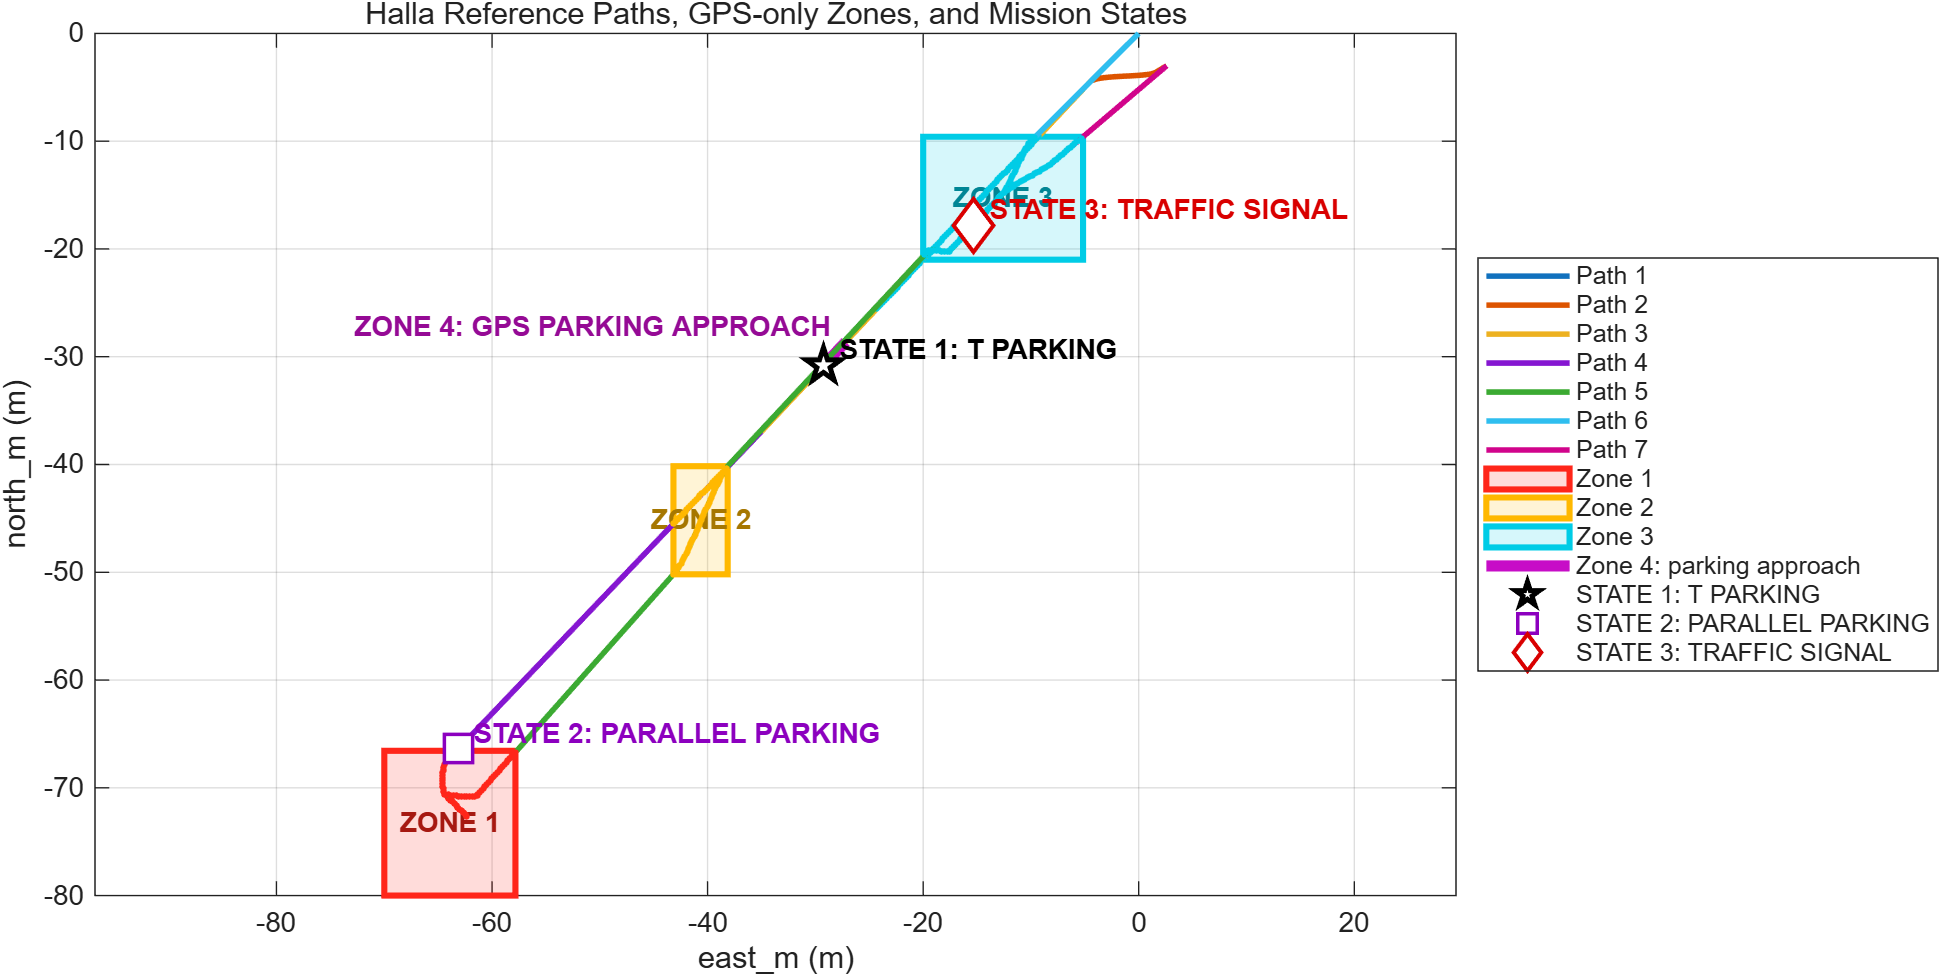
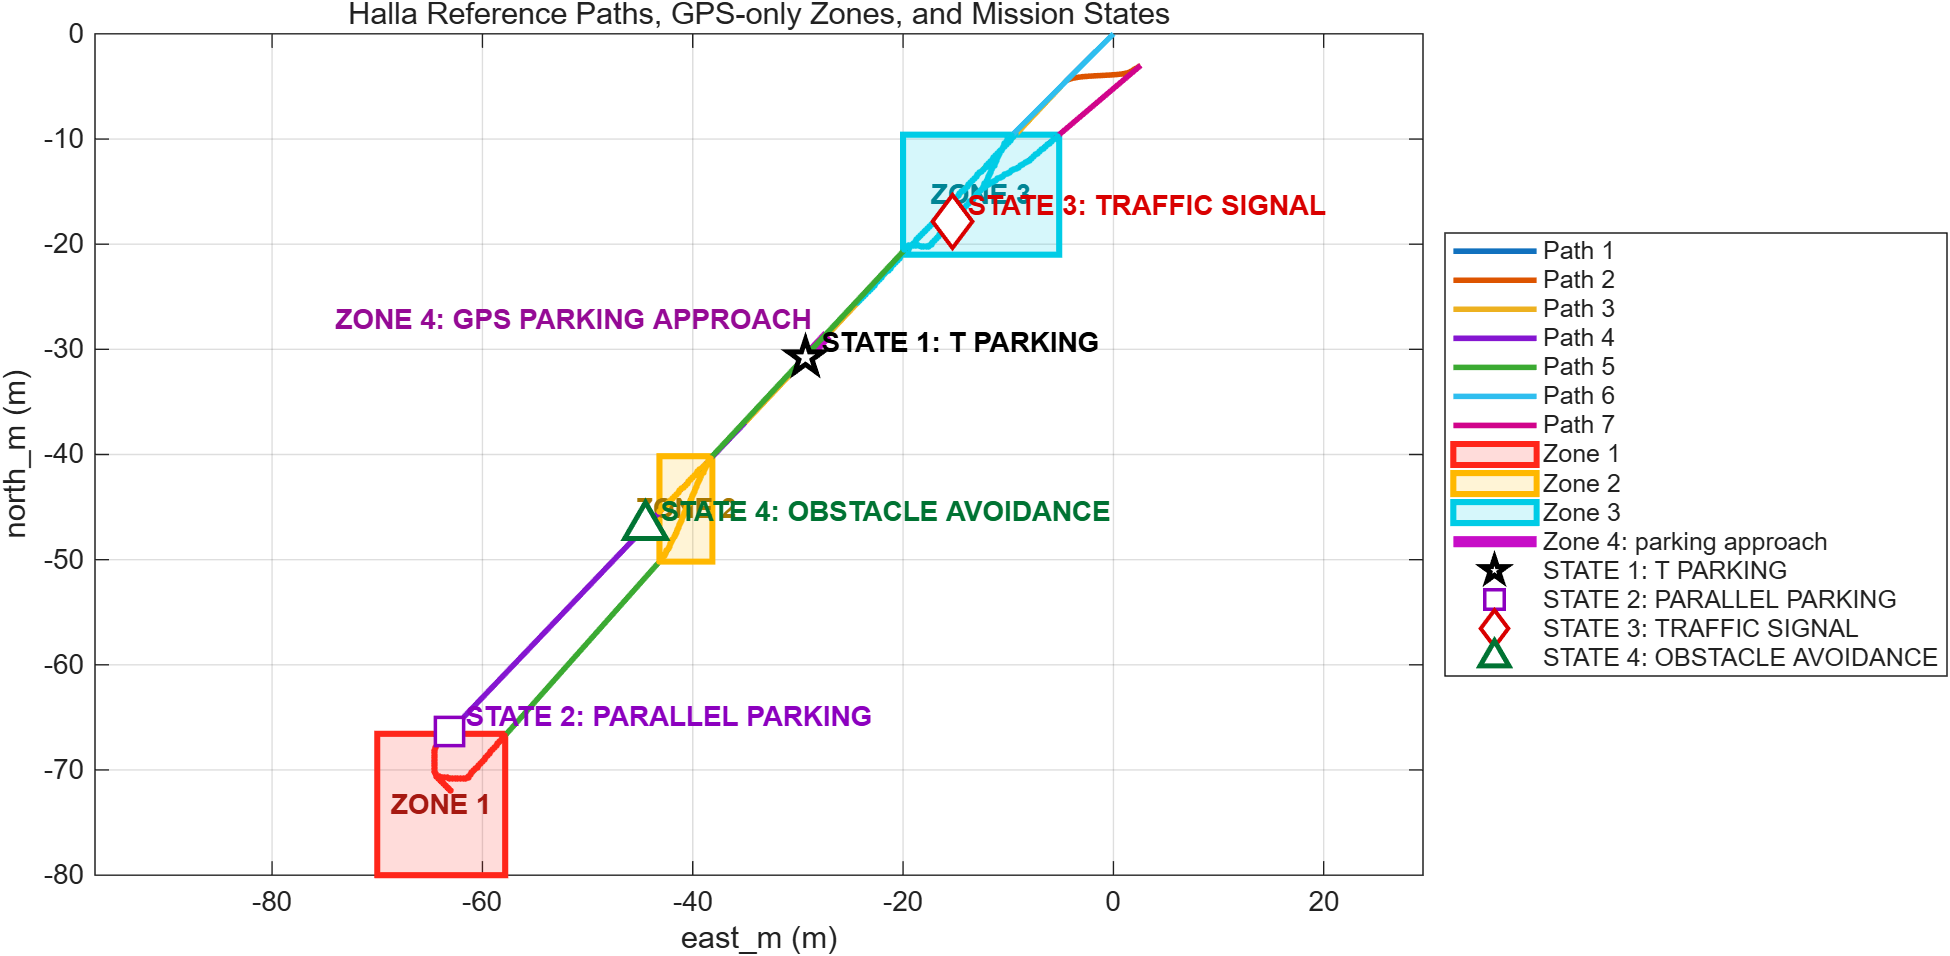
fix(stack_gps): mark obstacle avoidance transition

diff --git a/src/stack_gps/test/test_halla_reference_mission.py b/src/stack_gps/test/test_halla_reference_mission.py
@@ -66,7 +66,7 @@ def test_path_graph_connects_except_for_the_parking_handoff():
     assert _xy(paths[3][-1]) == _xy(paths[4][0])
     # Path 4 finishes the parallel-parking maneuver. Path 5 deliberately
     # resumes from its separate post-parking start point.
-    assert _xy(paths[4][-1]) == (-62.335, -72.648)
+    assert _xy(paths[4][-1]) == (-63.042107, -71.940893)
     assert _xy(paths[5][0]) == (-64.335, -70.648)
     assert _xy(paths[5][-1]) == _xy(paths[6][0]) == _xy(paths[7][0])
     assert _xy(paths[6][-1]) == _xy(paths[1][0])
@@ -80,7 +80,7 @@ def test_updated_parking_control_points_are_sampled():
         (-35.02, -36.958),
         (-64.335, -67.648),
         (-64.335, -70.648),
-        (-62.335, -72.648),
+        (-63.042107, -71.940893),
     }.issubset(path_4)
     assert {
         (-64.335, -70.648),
@@ -121,17 +121,18 @@ def test_parking_markers_match_requested_positions():
         assert abs(parking_points[0]['lon'] - float(marked[0]['lon'])) < 1e-8
 
 
-def test_mission_state_codes_and_signal_marker():
+def test_mission_state_codes_and_transition_markers():
     expected = {
         1: (3, 145, 'perpendicular'),
         2: (4, 163, 'parallel'),
         3: (5, 300, 'none'),
+        4: (4, 55, 'none'),
     }
     marked = []
     for path_id in range(1, 8):
         for row in _load_path(path_id):
             state = int(row['state'])
-            assert state in (0, 1, 2, 3)
+            assert state in (0, 1, 2, 3, 4)
             if state:
                 marked.append((state, path_id, int(row['idx']), row['parking_mode']))
     assert sorted(marked) == [
@@ -174,13 +175,28 @@ def test_mission_yaml_state_definitions_match_csv():
         1: 'perpendicular_parking',
         2: 'parallel_parking',
         3: 'traffic_signal',
+        4: 'obstacle_avoidance',
     }
     assert [(point['state'], point['path_id'], point['idx'])
             for point in mission['state_points']] == [
                 (1, 3, 145),
                 (2, 4, 163),
                 (3, 5, 300),
+                (4, 4, 55),
             ]
+
+
+def test_path_4_final_straight_is_shortened_by_one_meter():
+    rows = _load_path(4)
+    assert len(rows) == 192
+    straight_start = (-64.335, -70.648)
+    end = _xy(rows[-1])
+    assert end == (-63.042107, -71.940893)
+    assert math.isclose(
+        math.hypot(end[0] - straight_start[0], end[1] - straight_start[1]),
+        math.sqrt(8.0) - 1.0,
+        abs_tol=1e-6,
+    )
 
 
 def test_route_zone_files_reference_the_matching_track():

diff --git a/src/stack_gps/tools/waypoints/plot_halla_reference_mission.m b/src/stack_gps/tools/waypoints/plot_halla_reference_mission.m
@@ -38,8 +38,8 @@ zoneHandles(4) = plot(ax, nan, nan, '-', ...
     'DisplayName', 'Zone 4: parking approach');
 
 pathHandles = gobjects(7, 1);
-stateEast = nan(3, 1);
-stateNorth = nan(3, 1);
+stateEast = nan(4, 1);
+stateNorth = nan(4, 1);
 for pathId = 1:7
     pathFile = fullfile(waypointDir, ...
         sprintf('waypoints_halla_reference_path_%02d.csv', pathId));
@@ -66,7 +66,7 @@ for pathId = 1:7
             'FontWeight', 'bold', 'HorizontalAlignment', 'right', ...
             'VerticalAlignment', 'bottom');
     end
-    for stateId = 1:3
+    for stateId = 1:4
         stateRow = find(T.state == stateId, 1);
         if ~isempty(stateRow)
             stateEast(stateId) = T.east_m(stateRow);
@@ -76,11 +76,11 @@ for pathId = 1:7
 end
 
 stateLabels = ["STATE 1: T PARKING", "STATE 2: PARALLEL PARKING", ...
-    "STATE 3: TRAFFIC SIGNAL"];
-stateMarkers = ['p', 's', 'd'];
-stateColors = [0 0 0; 0.55 0 0.75; 0.85 0 0];
-stateHandles = gobjects(3, 1);
-for stateId = 1:3
+    "STATE 3: TRAFFIC SIGNAL", "STATE 4: OBSTACLE AVOIDANCE"];
+stateMarkers = ['p', 's', 'd', '^'];
+stateColors = [0 0 0; 0.55 0 0.75; 0.85 0 0; 0.00 0.45 0.20];
+stateHandles = gobjects(4, 1);
+for stateId = 1:4
     stateHandles(stateId) = plot(ax, stateEast(stateId), stateNorth(stateId), ...
         stateMarkers(stateId), ...
         'MarkerSize', 13, 'MarkerFaceColor', 'w', ...

diff --git a/src/stack_gps/tools/waypoints/README.md b/src/stack_gps/tools/waypoints/README.md
@@ -366,11 +366,12 @@ rviz2 -d "$HOME/FMA_ws/src/stack_gps/tools/waypoints/gps_view.rviz"
 `zones_halla_reference_path_XX.yaml`에 저장된다. 경로 2의 YAML은 시작부터 끝까지
 GPS 전용 구간이라 카메라 전이 없이 waypoint로만 주행한다.
 각 CSV의 `state`는 `0=일반`, `1=T자 주차`, `2=평행 주차`,
-`3=신호등 인식 예상 지점`이다. `state=3`은 코스 표식이며 위치만으로
+`3=신호등 인식 예상 지점`, `4=장애물 회피 전환 지점`이다. `state=3`은 코스 표식이며 위치만으로
 TRAFFIC 전이를 강제하지 않는다. 적색과 정지선을 카메라로 인식했을 때만
-MGM이 TRAFFIC으로 전이한다. Path 3의 Zone 3은 현장 편집값인
+MGM이 TRAFFIC으로 전이한다. `state=4`는 Path 4 `idx 55`의 장애물 회피
+스테이트 변경 표식이다. Path 3의 Zone 3은 현장 편집값인
 `idx 28~116`으로 연장되어 있다.
-Path 4는 평행주차 동작을 마친 `(-62.335, -72.648)`에서 끝나고, Path 5는
+Path 4는 마지막 직선을 1 m 줄인 `(-63.042107, -71.940893)`에서 끝나고, Path 5는
 주차 후 복귀 지점 `(-64.335, -70.648)`에서 시작하므로 두 CSV의 끝점은
 의도적으로 일치하지 않는다.
 

diff --git a/CLAUDE.md b/CLAUDE.md
@@ -190,8 +190,9 @@
 
 > 2026-09-12 한라대 데이터: 손상민 PR #86 / `28ba409`의 경로별 Zone·CSV·표식을 v2에 반영한다.
 > CSV state 1=T자, 2=평행은 대응 YAML 주차점과 동기화한다. 3=신호 예상 위치는 메타데이터이며
-> Signal 전이를 위치만으로 강제하지 않는다. Path 3의 GPS-only Zone 3은 업로드된 idx 28~116을 사용한다.
-> 경로 순서는 위 정정 기준을 적용하며 원본 좌표 기하를 변경하지 않는다.
+> Signal 전이를 위치만으로 강제하지 않는다. state 4는 Path 4 idx 55의 장애물 회피 전환 지점이다.
+> Path 3의 GPS-only Zone 3은 업로드된 idx 28~116을 사용한다. Path 4의 마지막 직선은 1 m 줄여
+> 끝점을 `(-63.042107,-71.940893)`으로 둔다. 경로 순서는 위 정정 기준을 적용한다.
 
 > Integration v2 분리 기준: [docs/INTEGRATION_V2.md](docs/INTEGRATION_V2.md). 기존 main은 보존하며 v2 전용 소스/build/install에서만 통합한다.
 

diff --git a/src/adas_mgm/RUNBOOK_integration_v2_halla.md b/src/adas_mgm/RUNBOOK_integration_v2_halla.md
@@ -63,7 +63,8 @@ GPS가 다음 파일을 적용하고 새 fix의 유효 reference가 확인되면
 수동 지정한 종료 경로를 유지한다. 주행 중 선택 변경은 지원하지 않으며 재기동한다.
 
 01/02→03, 03→04, 05→06/07은 접속점이 일치한다. 최신 04→05는 업로드 문서대로
-평행 주차 후 복귀를 위한 불연속이다. 04 끝점 `(-62.335,-72.648)`과 05 시작점
+평행 주차 후 복귀를 위한 불연속이다. 04 끝점은 마지막 직선을 1 m 줄인
+`(-63.042107,-71.940893)`이고 05 시작점
 `(-64.335,-70.648)`을 직선으로 연결하지 않는다. ACTIVE Parking 중 종점 관측을 기억하고
 주차 완료 응답 뒤 GPS 경로를 넘긴다. 실제 복귀 위치와 이 인계 조건 충족은 현장에서 확인한다.
 
